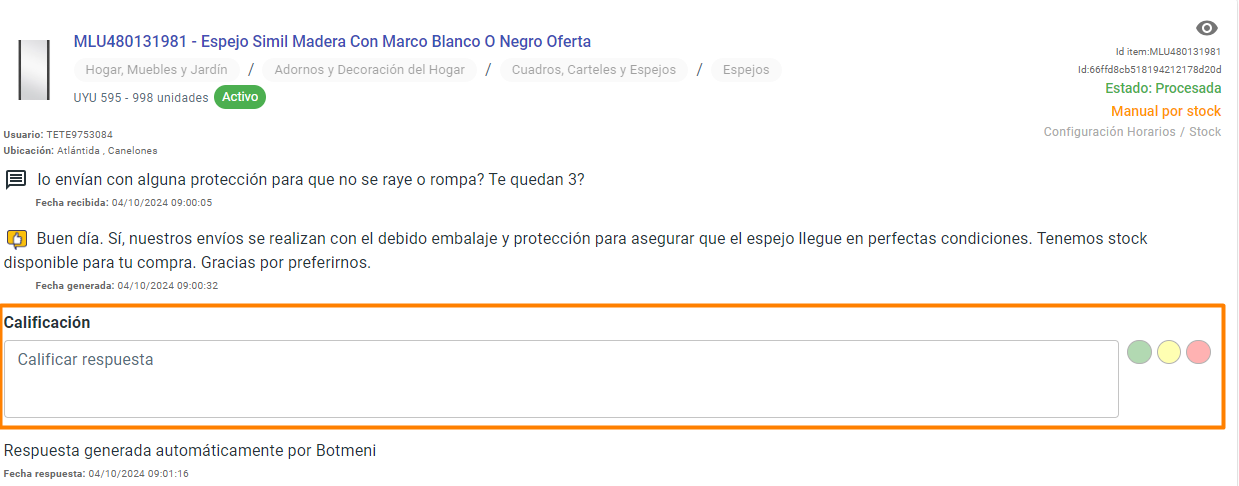
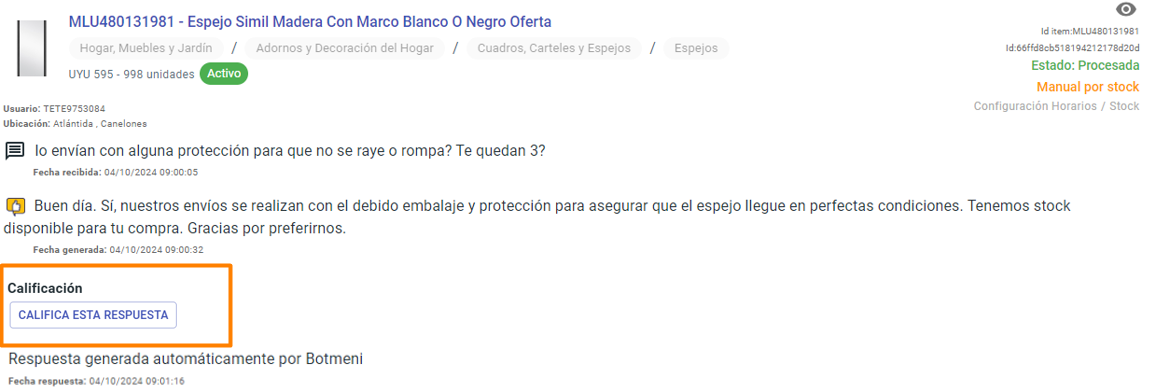
26 11 10

diff --git a/content/docs/Preguntas_de_Mercado_libre/Historico/informacion.md b/content/docs/Preguntas_de_Mercado_libre/Historico/informacion.md
@@ -21,7 +21,7 @@ A continuación se describirá la información que puedes visualizar para cada p
     7. Indica la configuración que definió el comportamiento de respuesta. Por ejemplo, para el caso de la imagen, La respuesta quedó con estado Procesada y Subestado Manual por stock (es decir, se generó la respuesta pero no se envió en forma automática), dado que la tienda tiene definido ese comportamiento para las preguntas que ingresan en ese horario (Configuración Horarios) y son referidas a stock (Stock).
 2. En la sección central se visualiza la pregunta ingresada, con su fecha y hora, y la respuesta generada por nuestro modelo, con la fecha y hora en que fue generada, si el comportamiento de respuesta está configurado para que la misma se genere.
 {{< figure width="840px" height="600px" src="/images/general/historico9.png" >}}
-3.  A continuación tienes la posibilidad de calificar la calidad de nuestra respuesta presionando los círculos de color verde, amarillo y rojo en función de tu evaluación: Respuesta excelente, Respuesta mejorable y Respuesta incorrecta. En el espacio Calificar respuesta ingresa un comentario asociado a la calificación que acabas de realizar, que nos ayudará a implementar las mejoras que sean necesarias.
+3.  A continuación tienes la posibilidad de calificar nuestra respuesta presionando sobre el botón CALIFICA ESTA RESPUESTA. En la sección [Calificar respuestas del Histórico](../Historico/calificar.md) se explica en detalle el proceso de Calificación.
 {{< figure width="840px" height="600px" src="/images/general/historico10.png" >}}
 4. Finalmente, en la parte inferior se detalla la respuesta que fue enviada a Mercado Libre, y la fecha y hora en que fue enviada. En caso de que la respuesta enviada haya sido exactamente la respuesta generada por la plataforma, se leerá la leyenda: Respuesta generada automáticamente por Botmeni. Caso contrario, se visualizará la respuesta enviada a Mercado Libre con las modificaciones que tu tienda haya realizado.
 {{< figure width="840px" height="600px" src="/images/general/historico11.png" >}}

diff --git a/content/docs/Preguntas_de_Mercado_libre/Historico/calificar.md b/content/docs/Preguntas_de_Mercado_libre/Historico/calificar.md
@@ -11,8 +11,10 @@ toc: true
 ---
 
 Para calificar una respuesta, una vez que estás visualizando el listado de Preguntas del Histórico:
-1. Ingresa el comentario o sugerencia que quieras comunicarnos en el campo Calificar respuesta. Esto no es obligatorio en caso de que tu calificación sea Respuesta excelente (círculo verde).
-{{< figure width="840px" height="600px" src="/images/general/historico13.png" >}}
-2. Selecciona el círculo verde, amarillo o rojo en función de cómo deseas calificar la respuesta generada: Respuesta excelente, Mejorable o Incorrecta.
-{{< figure width="840px" height="600px" src="/images/general/historico14.png" >}}<br></br>
+1. Presionar el botón CALIFICA ESTA RESPUESTA
+{{< figure width="840px" height="600px" src="/images/general/calificar1.png" >}}
+2. Ingresa el comentario o sugerencia que quieras comunicarnos en el campo Calificar respuesta. Esto no es obligatorio en caso de que tu calificación sea Respuesta excelente (círculo verde).
+{{< figure width="840px" height="600px" src="/images/general/calificar2.png" >}}
+3. Selecciona el círculo verde, amarillo o rojo en función de cómo deseas calificar la respuesta generada: Respuesta excelente, Mejorable o Incorrecta.
+{{< figure width="840px" height="600px" src="/images/general/calificar3.png" >}}<br></br>
 La calificación de las respuestas nos permite incorporar las mejoras o modificaciones necesarias. Además, al calificar una respuesta como mejorable o incorrecta se genera un ticket, para aquellos planes que lo tienen como funcionalidad disponible y siempre que no se haya alcanzado el límite mensual. Puedes ingresar a la sección [Herramientas de Comunicación - Tickets](../../Herramientas_comunicacion/Tickets.md) para conocer más acerca del funcionamiento de los Tickets en nuestra plataforma.<br></br>

diff --git a/content/docs/Personaliza_tu_cuenta_de_botmeni/Cuentas_de_Mercado_Libre/Cuentas_ML.md b/content/docs/Personaliza_tu_cuenta_de_botmeni/Cuentas_de_Mercado_Libre/Cuentas_ML.md
@@ -42,7 +42,7 @@ Si necesitas desvincular una cuenta de Mercado Libre de tu cuenta de Botmeni:
 2. Selecciona el módulo Cuentas del menú.
 {{< figure width="140px" height="100px" src="/images/general/cuentas.png" >}}
 3. Presiona el ícono papelera a la derecha de la cuenta que deseas desasociar.
-{{< figure width="630px" height="450px" src="/images/general/cuentas5.png" >}}
+{{< figure width="560px" height="400px" src="/images/general/cuentas5.png" >}}
 4. Presiona Desvincular en el mensaje que requiere tu confirmación.
-{{< figure width="630px" height="450px" src="/images/general/cuentas6.png" >}}
+{{< figure width="560px" height="400px" src="/images/general/cuentas6.png" >}}
 La cuenta quedará desvinculada de tu cuenta de Botmeni.
